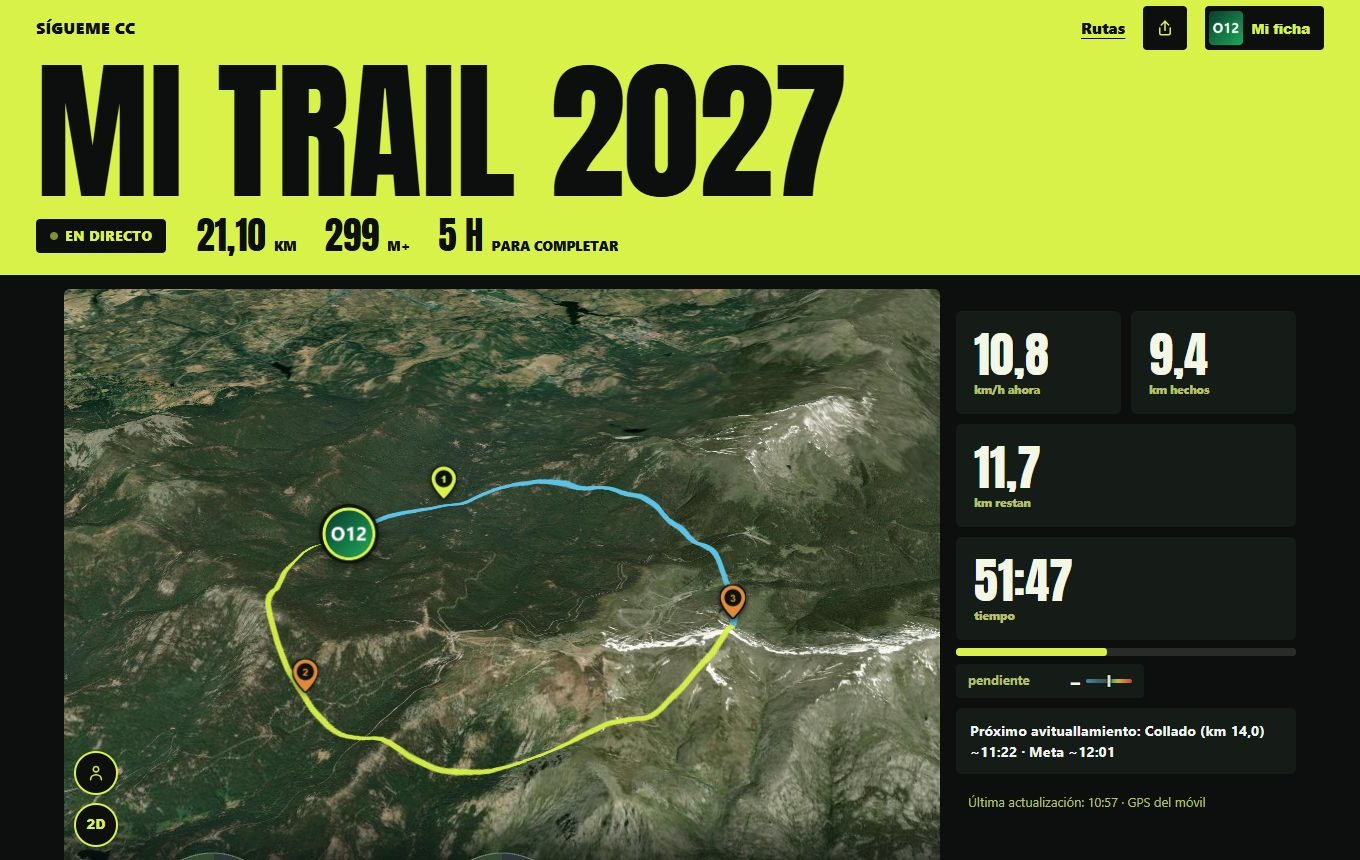
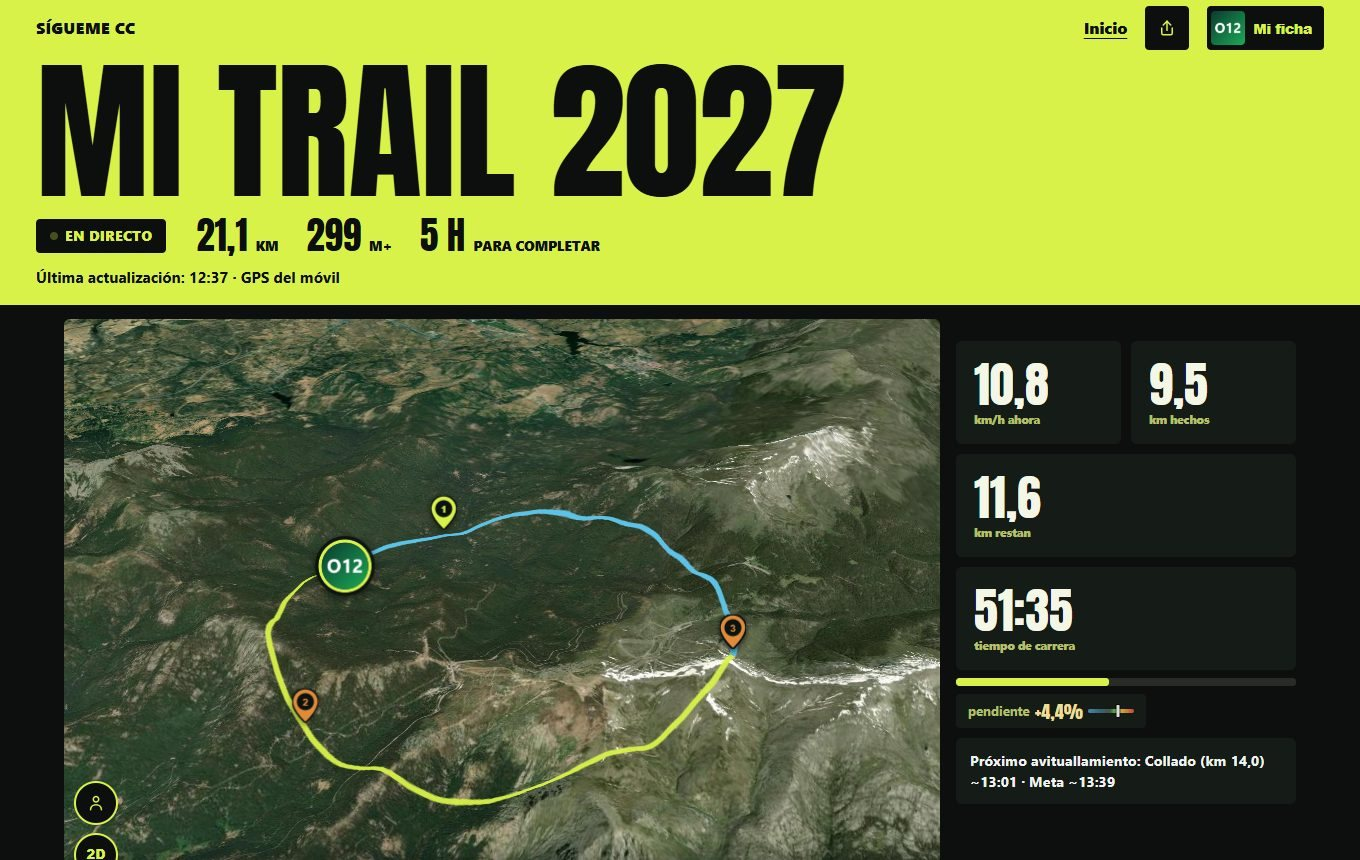
v1.24.0 · Página en directo más clara y Mis rutas más comprensible

diff --git a/app.js b/app.js
@@ -9,6 +9,8 @@ let aidStations = [];
 // números en formato español: 102,1 km, 11,8 km/h
 const num = (v, dec = 1) => (v == null || v === '' || isNaN(v)) ? '—'
   : Number(v).toLocaleString('es-ES', { minimumFractionDigits: dec, maximumFractionDigits: dec });
+const numKm = v => (v == null || v === '' || isNaN(v)) ? '—'
+  : Number(v).toLocaleString('es-ES', { minimumFractionDigits: 0, maximumFractionDigits: 2 });
 const entero = v => (v == null || v === '' || isNaN(v)) ? '—' : String(Math.round(v));
 
 // Datos pedidos desde el <head> (index.html) para no esperar a la librería
@@ -568,7 +570,7 @@ precargado('route.geojson', () => fetch('route.geojson').then(r => r.json()))
   .then(geojson => {
     routeGeojson = geojson;
     const props = geojson.features[0].properties;
-    if (!document.getElementById('stat-dist').dataset.real) document.getElementById('stat-dist').textContent = num(props.distance_km, 2);
+    if (!document.getElementById('stat-dist').dataset.real) document.getElementById('stat-dist').textContent = numKm(props.distance_km);
     if (!document.getElementById('stat-gain').dataset.real) document.getElementById('stat-gain').textContent = Number(props.elevation_gain_m).toLocaleString('es-ES');
     totalRouteKm = props.distance_km;
 
@@ -783,6 +785,17 @@ function drawElevationChart(profile, minEle, maxEle) {
     ctx.lineWidth = 2;
     ctx.stroke();
   }
+
+  // la escala, en el hueco de arriba: de qué altura a qué altura, y cuántos km
+  ctx.save();
+  ctx.font = '700 11px system-ui, sans-serif';
+  ctx.fillStyle = '#f4f7e6';
+  ctx.shadowColor = 'rgba(0,0,0,0.85)';
+  ctx.shadowBlur = 3;
+  ctx.textBaseline = 'top';
+  ctx.textAlign = 'right';        // a la derecha: a la izquierda, sobre el gráfico, van los botones del mapa
+  ctx.fillText('Altura ' + Math.round(minEle) + '–' + Math.round(maxEle) + ' m · ruta ' + numKm(maxD) + ' km', cssW - padR - 4, 2);
+  ctx.restore();
 }
 
 let anchoPerfil = 0;
@@ -1386,7 +1399,7 @@ function pollLive() {
           ponerTexto('estado-carrera', 'Sale a las ' + hora + ' · ' + (quien ? quien + ' ya está' : 'ya está') + ' en la salida');
           estado.classList.add('previo');
         } else if (!haArrancado) {
-          ponerTexto('estado-carrera', 'Sale a las ' + hora + (diaCarrera() ? ' · ' + diaCarrera() : ''));
+          ponerTexto('estado-carrera', 'Sale a las ' + hora + (diaCarrera() ? ' · ' + diaCarrera() : '') + ' · esta página se actualiza sola');
           estado.classList.add('previo');
         } else {
           const pr = previsiones(doneKm, data.data_at);
@@ -1412,8 +1425,8 @@ function pollLive() {
         else pildora('En directo', 'vivo');
         pintarFantasma(pr ? pr.est : null);
         if (pr) {
-          pie.textContent = 'Sin cobertura desde las ' + fmtTime(ultimoDato) + ' (km ' + num(doneKm) + ')' +
-            ' · a su ritmo irá por el km ~' + num(pr.est, 0) + ' (marca transparente)';
+          pie.textContent = 'Sin cobertura desde las ' + fmtTime(ultimoDato) + ', en el km ' + num(doneKm) + '. ' +
+            'A su ritmo estará ahora hacia el km ' + num(pr.est, 0) + ' (la marca transparente del mapa).';
         } else if (ultimoDato && hueco > 240000 && data.status_label === 'En carrera') {
           pie.textContent = 'Sin datos nuevos desde las ' + fmtTime(ultimoDato) +
             ' · parado o sin cobertura';
@@ -1499,7 +1512,7 @@ function cabeceraReal(r) {
     b.dataset.real = '1';
     b.parentElement.lastChild.textContent = ' ' + unidad + (previsto ? ' de ' + previsto : '');   // como «2h 00m de 5 h»
   };
-  pon('stat-dist', num(r.distancia_km), 'km', CARRERA.distancia_km ? num(CARRERA.distancia_km, 2) : '');
+  pon('stat-dist', num(r.distancia_km), 'km', CARRERA.distancia_km ? numKm(CARRERA.distancia_km) : '');
   pon('stat-gain', r.desnivel_m != null ? Number(r.desnivel_m).toLocaleString('es-ES') : null, 'm+',
       CARRERA.desnivel_m ? Number(CARRERA.desnivel_m).toLocaleString('es-ES') : '');
 }

diff --git a/index.html b/index.html
@@ -49,7 +49,7 @@
 <link rel="preconnect" href="https://s3.amazonaws.com" crossorigin>
 <link rel="stylesheet" href="lib/maplibre-gl-4.7.1.css">
 <link rel="stylesheet" href="style.css?v=69">
-<link rel="stylesheet" href="/cartel-directo.css?v=1">
+<link rel="stylesheet" href="/cartel-directo.css?v=2">
 </head>
 <body>
 <header class="cd-cab">
@@ -74,6 +74,7 @@
       <span><b id="stat-limite">12 h</b> <i>para completar</i></span>
     </div>
   </div>
+  <p class="live-updated" id="live-updated" aria-live="polite"></p>
 </header>
 
 <section class="ficha" id="ficha" hidden>
@@ -132,7 +133,7 @@
     <div class="metrica destacada" data-tile="speed"><span class="m-val" id="m-speed">—</span><span class="m-tag">km/h ahora</span></div>
     <div class="metrica destacada" data-tile="dist"><span class="m-val" id="m-dist">—</span><span class="m-tag">km hechos</span></div>
     <div class="metrica destacada" data-tile="left"><span class="m-val" id="m-left">—</span><span class="m-tag">km restan</span></div>
-    <div class="metrica destacada" data-tile="time"><span class="m-val" id="m-time">—</span><span class="m-tag">tiempo</span></div>
+    <div class="metrica destacada" data-tile="time"><span class="m-val" id="m-time">—</span><span class="m-tag">tiempo de carrera</span></div>
   </div>
   <div class="progreso" data-tile="dist" aria-hidden="true"><i id="progreso-barra"></i></div>
   <div class="metricas-sec">
@@ -152,7 +153,6 @@
   </div>
 </section>
 
-<p class="live-updated" id="live-updated"></p>
 </div>
 </div>
 
@@ -162,6 +162,6 @@
   <p class="creditos">Imágenes de satélite © Esri, Maxar, Earthstar Geographics y la comunidad de usuarios GIS · Relieve © Mapzen/AWS (Terrain Tiles) · Mapa con MapLibre</p>
 </footer>
 
-<script src="app.js?v=84"></script>
+<script src="app.js?v=85"></script>
 </body>
 </html>

diff --git a/mis-rutas.html b/mis-rutas.html
@@ -57,7 +57,8 @@
 <main>
   <section class="tarjeta entra" id="vista-login">
     <h2>Entrar</h2>
-    <p class="sub">Con el usuario y el código que te han dado. El acceso caduca: cuando pase la fecha, pide otro. Si eres el dueño de la web, entra con tu usuario y tu clave del panel (o abre el panel y vuelve aquí).</p>
+    <p class="sub">Entra con el usuario y el código que te dieron. Tu acceso caduca en la fecha que te dijeron: pasada, se borra todo lo tuyo y hay que pedir otro.</p>
+    <p class="sub">¿Eres el dueño de la web? Entra con tu usuario y tu clave del panel.</p>
     <form id="form-login" autocomplete="on">
       <label for="usuario">Usuario</label>
       <input type="text" id="usuario" name="username" autocomplete="username" autocapitalize="none" autocorrect="off" spellcheck="false" required>

diff --git a/mis-rutas.js b/mis-rutas.js
@@ -42,7 +42,7 @@ $('salir').addEventListener('click', async () => { try { await post('/logout', {
 // ---- lista de rutas
 async function lista() {
   const d = await api('/rutas');
-  $('cabecera').textContent = d.dueno ? 'Las rutas del dueño de la web, sin caducidad.' : 'Hola, ' + d.nombre + (d.caduca === '2099-12-31' ? '. Tu acceso no caduca.' : '. Tu acceso vale hasta el ' + fecha(d.caduca) + '.');
+  $('cabecera').textContent = d.dueno ? 'Las rutas del dueño de la web, sin caducidad.' : 'Hola, ' + d.nombre + (d.caduca === '2099-12-31' ? '. Tu acceso no caduca.' : '. Tu acceso vale hasta el ' + fecha(d.caduca) + '; después se borra todo lo tuyo.');
   $('salir').hidden = !!d.dueno;
   const cont = $('lista'); cont.textContent = '';
   $('lista-vacia').hidden = d.rutas.length > 0;

diff --git a/cartel-directo.css b/cartel-directo.css
@@ -90,3 +90,11 @@ footer a { color: var(--papel); }
 .cd-cab { overflow-x: clip; }
 .cd-ruta span { flex: 0 0 auto; white-space: nowrap; }
 .estado-carrera:empty { display: none; }
+
+/* la frase de estado (última actualización, sin cobertura…) va en la cabecera, junto al estado */
+.cd-cab .live-updated { margin: 12px clamp(16px, 3vw, 36px) 0; padding: 0; text-align: left; color: var(--tinta); font-weight: 700; font-size: 0.95rem; line-height: 1.35; max-width: 60ch; }
+.cd-cab .live-updated:empty { display: none; }
+.cd-cab { padding-bottom: 18px; }
+
+/* el botón de la ficha del corredor dice «Mi ficha» también en el móvil (cabe a partir de 380 px) */
+@media (min-width: 380px) { .cd-nav .ver-ficha span { display: inline; } .cd-nav .ver-ficha { padding: 4px 12px 4px 4px; } }

diff --git a/cartel-panel.css b/cartel-panel.css
@@ -41,3 +41,7 @@ a { color: var(--accent); }
 
 /* casillas y selectores con el lima de la marca (antes salían en el azul del sistema) */
 input[type="checkbox"], input[type="radio"] { accent-color: var(--accent); }
+
+/* el botón de «elegir fichero» con el diseño de la web (antes, el gris del navegador) */
+input[type="file"]::file-selector-button { background: var(--accent); color: var(--tinta); border: 0; border-radius: 4px; padding: 8px 14px; margin-right: 12px; font: inherit; font-weight: 800; cursor: pointer; }
+input[type="file"]::file-selector-button:hover { filter: brightness(0.92); }

diff --git a/CHANGELOG.md b/CHANGELOG.md
@@ -4,6 +4,26 @@ Versiones con [SemVer](https://semver.org/lang/es/): la última cifra para
 arreglos, la del medio para funciones nuevas. Cada una tiene su etiqueta y su
 release en GitHub.
 
+## v1.24.0 · 2026-10-24
+- **La página en directo, más clara:**
+  - **Lo importante, donde se ve:** la frase de estado («Sin cobertura desde las
+    11:57, en el km 9,0. A su ritmo estará ahora hacia el km 12 (la marca
+    transparente del mapa)») pasa de debajo del mapa, fuera de pantalla en el
+    móvil, a la cabecera, junto al estado.
+  - **El botón de la ficha dice «Mi ficha»** también en el móvil (antes, un círculo
+    sin texto) cuando cabe (desde 380 px de ancho).
+  - **El perfil de altura lleva escala:** «Altura 900–1020 m · ruta 21,1 km».
+  - **Los números, iguales en todas partes:** 21,1 km (antes «21,10» arriba y
+    «21,1» en el resto) y 103,36 si hace falta; «tiempo de carrera» en vez de
+    «tiempo».
+  - **Antes de salir**, dice que la página se actualiza sola.
+- **Mis rutas:** el texto de entrada separa lo del invitado (su acceso caduca y, pasada
+  la fecha, se borra todo lo suyo) de lo del dueño; ya dentro, el invitado ve esa
+  misma advertencia; y el botón de «elegir fichero» tiene el diseño de la web, en
+  Mis rutas y en el panel (antes, el gris del navegador).
+- Capturas del repo al día (página en directo, datos de la carrera con la casilla
+  nueva y guía).
+
 ## v1.23.0 · 2026-10-23
 - **La web en directo con cortes de cobertura:**
   - **El último dato se guarda en el móvil de quien mira** (siempre activo): si abre

diff --git a/README.md b/README.md
@@ -11,7 +11,7 @@
 </p>
 
 <p align="center">
-  <img alt="versión" src="https://img.shields.io/badge/versión-v1.23.0-1f8a4c">
+  <img alt="versión" src="https://img.shields.io/badge/versión-v1.24.0-1f8a4c">
   <img alt="Python" src="https://img.shields.io/badge/servidor-Python%203%20·%20stdlib-3776ab">
   <img alt="MapLibre" src="https://img.shields.io/badge/mapa-MapLibre%204.7-396cb2">
   <img alt="Zepp OS" src="https://img.shields.io/badge/reloj-Zepp%20OS%203-ff6a00">
